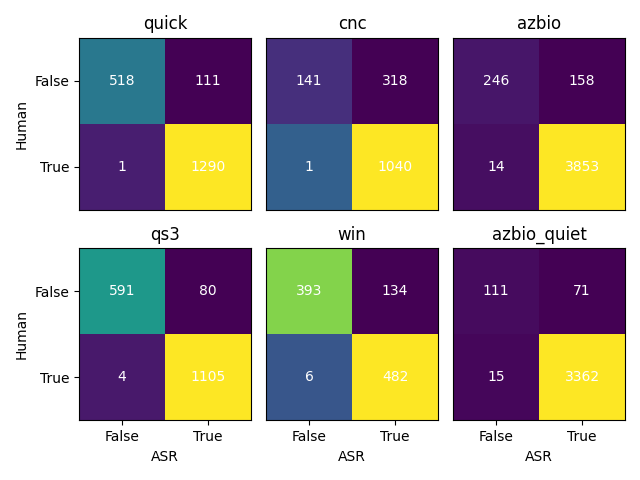
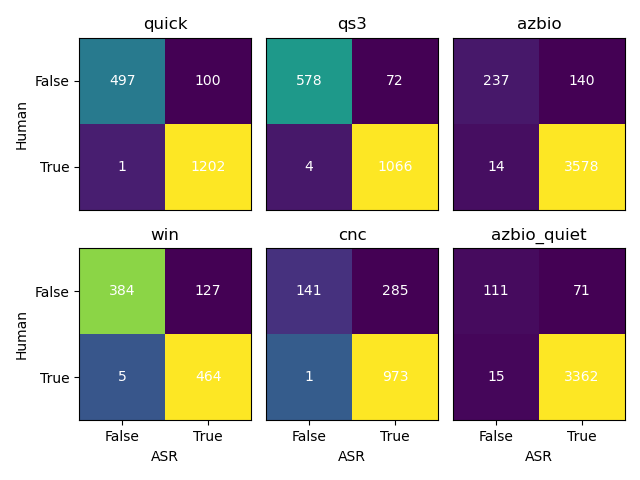
English only.  Only show foreign words in html summary.

diff --git a/analyze_results.py b/analyze_results.py
@@ -274,7 +274,8 @@ def score_asr_system(a_result: QS_result,
   word_matches = []
   match_times = []
   # Parse the JSON result, if we haven't already done that.
-  if isinstance(a_result.asr_results, str):
+  if isinstance(a_result.asr_results, str) and a_result.asr_results:
+    # print('Trying to parse ASR results for', a_result.asr_results)
     a_result.asr_results = json.loads(a_result.asr_results)
   if isinstance(a_result.annotation_matches, str):
     a_result.annotation_matches = json.loads(a_result.annotation_matches)
@@ -410,7 +411,8 @@ def all_test_confusions(all_results: List[QS_result]) -> Dict[str, NDArray]:
   Each confusion matrix is indexed by
     human, asr
   """
-  valid_subject_re = re.compile(r'A\d+[SP]\d+')
+  # valid_subject_re = re.compile(r'A\d+[SP]\d+')  # Includes pilot subjects
+  valid_subject_re = re.compile(r'A\d+[S]\d+')
   all_confusions = {}
   for r in all_results:
     if valid_subject_re.match(r.user_name):
@@ -452,8 +454,22 @@ def plot_confusions(all_confusions: Dict[str, NDArray]):
       plt.xticks([])
   plt.tight_layout()
 
-######################## Generate HTML Summary Page #########################
 
+def fix_encoding(bad_string: str) -> str:
+  try:
+    fixed_string = bad_string.encode('cp1252').decode('utf-8')
+    print(f"Repaired text: {fixed_string}") 
+    # Output: Боль
+  except (UnicodeEncodeError, UnicodeDecodeError):
+    # Fallback if the string wasn't actually mojibake
+    fixed_string = bad_string
+    print("Could not repair string, using original.")
+  # 3. ENCODE: Convert the repaired string into HTML entities.
+  # 'xmlcharrefreplace' turns any non-ASCII character into a numeric entity 
+  html_encoded = fixed_string.encode('ascii', 'xmlcharrefreplace').decode('ascii')
+  return html_encoded
+
+######################## Generate HTML Summary Page #########################
 def generate_html_report(all_results: List[QS_result],
                          all_ground_truth: Dict[Tuple[str, int, int], str],
                          only_discrepancies: bool = True,
@@ -502,7 +518,8 @@ def generate_html_report(all_results: List[QS_result],
     </tr>
   """
 
-  valid_subject_re = re.compile(r'A\d+[PS]\d+')
+  # valid_subject_re = re.compile(r'A\d+[PS]\d+')  # Includes pilot subjects
+  valid_subject_re = re.compile(r'A\d+[S]\d+') # Only actual subjects
   row_count = 0
   for result in all_results:
     if not valid_subject_re.match(result.user_name):
@@ -511,6 +528,11 @@ def generate_html_report(all_results: List[QS_result],
       continue
     # Check if there's any disagreement between audiology vs. asr_matches
     if only_discrepancies and result.annotation_matches == result.asr_matches:
+      continue
+
+    # Skip results where ASR recognized only ASCII characters (keep non ascii)
+    # Should be a flag.
+    if all([isinstance(r, str) and r.isascii() for r in result.asr_words]):
       continue
     html_output += "<tr>"
     html_output += f"<td>{result.user_name} {valid_subject_re.match(result.user_name)}</td>"
@@ -523,7 +545,7 @@ def generate_html_report(all_results: List[QS_result],
                                          result.trials_level_number), ["N/A"])
     ground_truth_string = ', '.join(['/'.join(homonym_list) for homonym_list in ground_truth])
     html_output += f"<td>{ground_truth_string}</td>"
-    html_output += f"<td>{', '.join(result.asr_words) if result.asr_words else 'N/A'}</td>"
+    html_output += f"<td>{', '.join([fix_encoding(r) for r in result.asr_words]) if result.asr_words else 'N/A'}</td>"
     html_output += f"<td>{result.annotation_matches}</td>"
     html_output += f"<td>{result.asr_matches}</td>"
     # https://www.w3schools.com/charsets/ref_utf_dingbats.asp
@@ -554,6 +576,8 @@ flags.DEFINE_string('dbfile', 'experiemnts.db',
                     'Sqllite3 database to read the experients results.')
 flags.DEFINE_string('homonyms', 'homonym_list.csv', 
                     'CSV file containing list of homonyms.')
+flags.DEFINE_string('discrepancies', 'asr_audiology_discrepancies.html', 
+                    'Where to store the final discrepancy report.')
 # flags.DEFINE_boolean('debug', False, 'Enable debug mode.')
 
 def main(argv):
@@ -582,9 +606,9 @@ def main(argv):
       filter_tests=[],
       max_number=1000)
 
-  with open('asr_audiology_discrepancies.html', 'w') as f:
+  with open(FLAGS.discrepancies, 'w') as f:
     f.write(html_report)
-  print(f'Wrote {row_count} discrepancy rows to asr_audiology_discrepancies.html')
+  print(f'Wrote {row_count} discrepancy rows to {FLAGS.discrepancies}')
 
   total_tests = 0
   total_correct = 0
@@ -594,8 +618,8 @@ def main(argv):
     num_correct = results[0,0] + results[1,1]
     total_tests += num_tests
     total_correct += num_correct
-    print(f'{test}: {num_correct/num_tests*100}%')
-  print(f'Overall: {total_correct/total_tests*100}%')
+    print(f'{test}: {num_correct/num_tests*100:.2f}%')
+  print(f'Overall: {total_correct/total_tests*100:.2f}%')
 
 if __name__ == "__main__":
     app.run(main)
